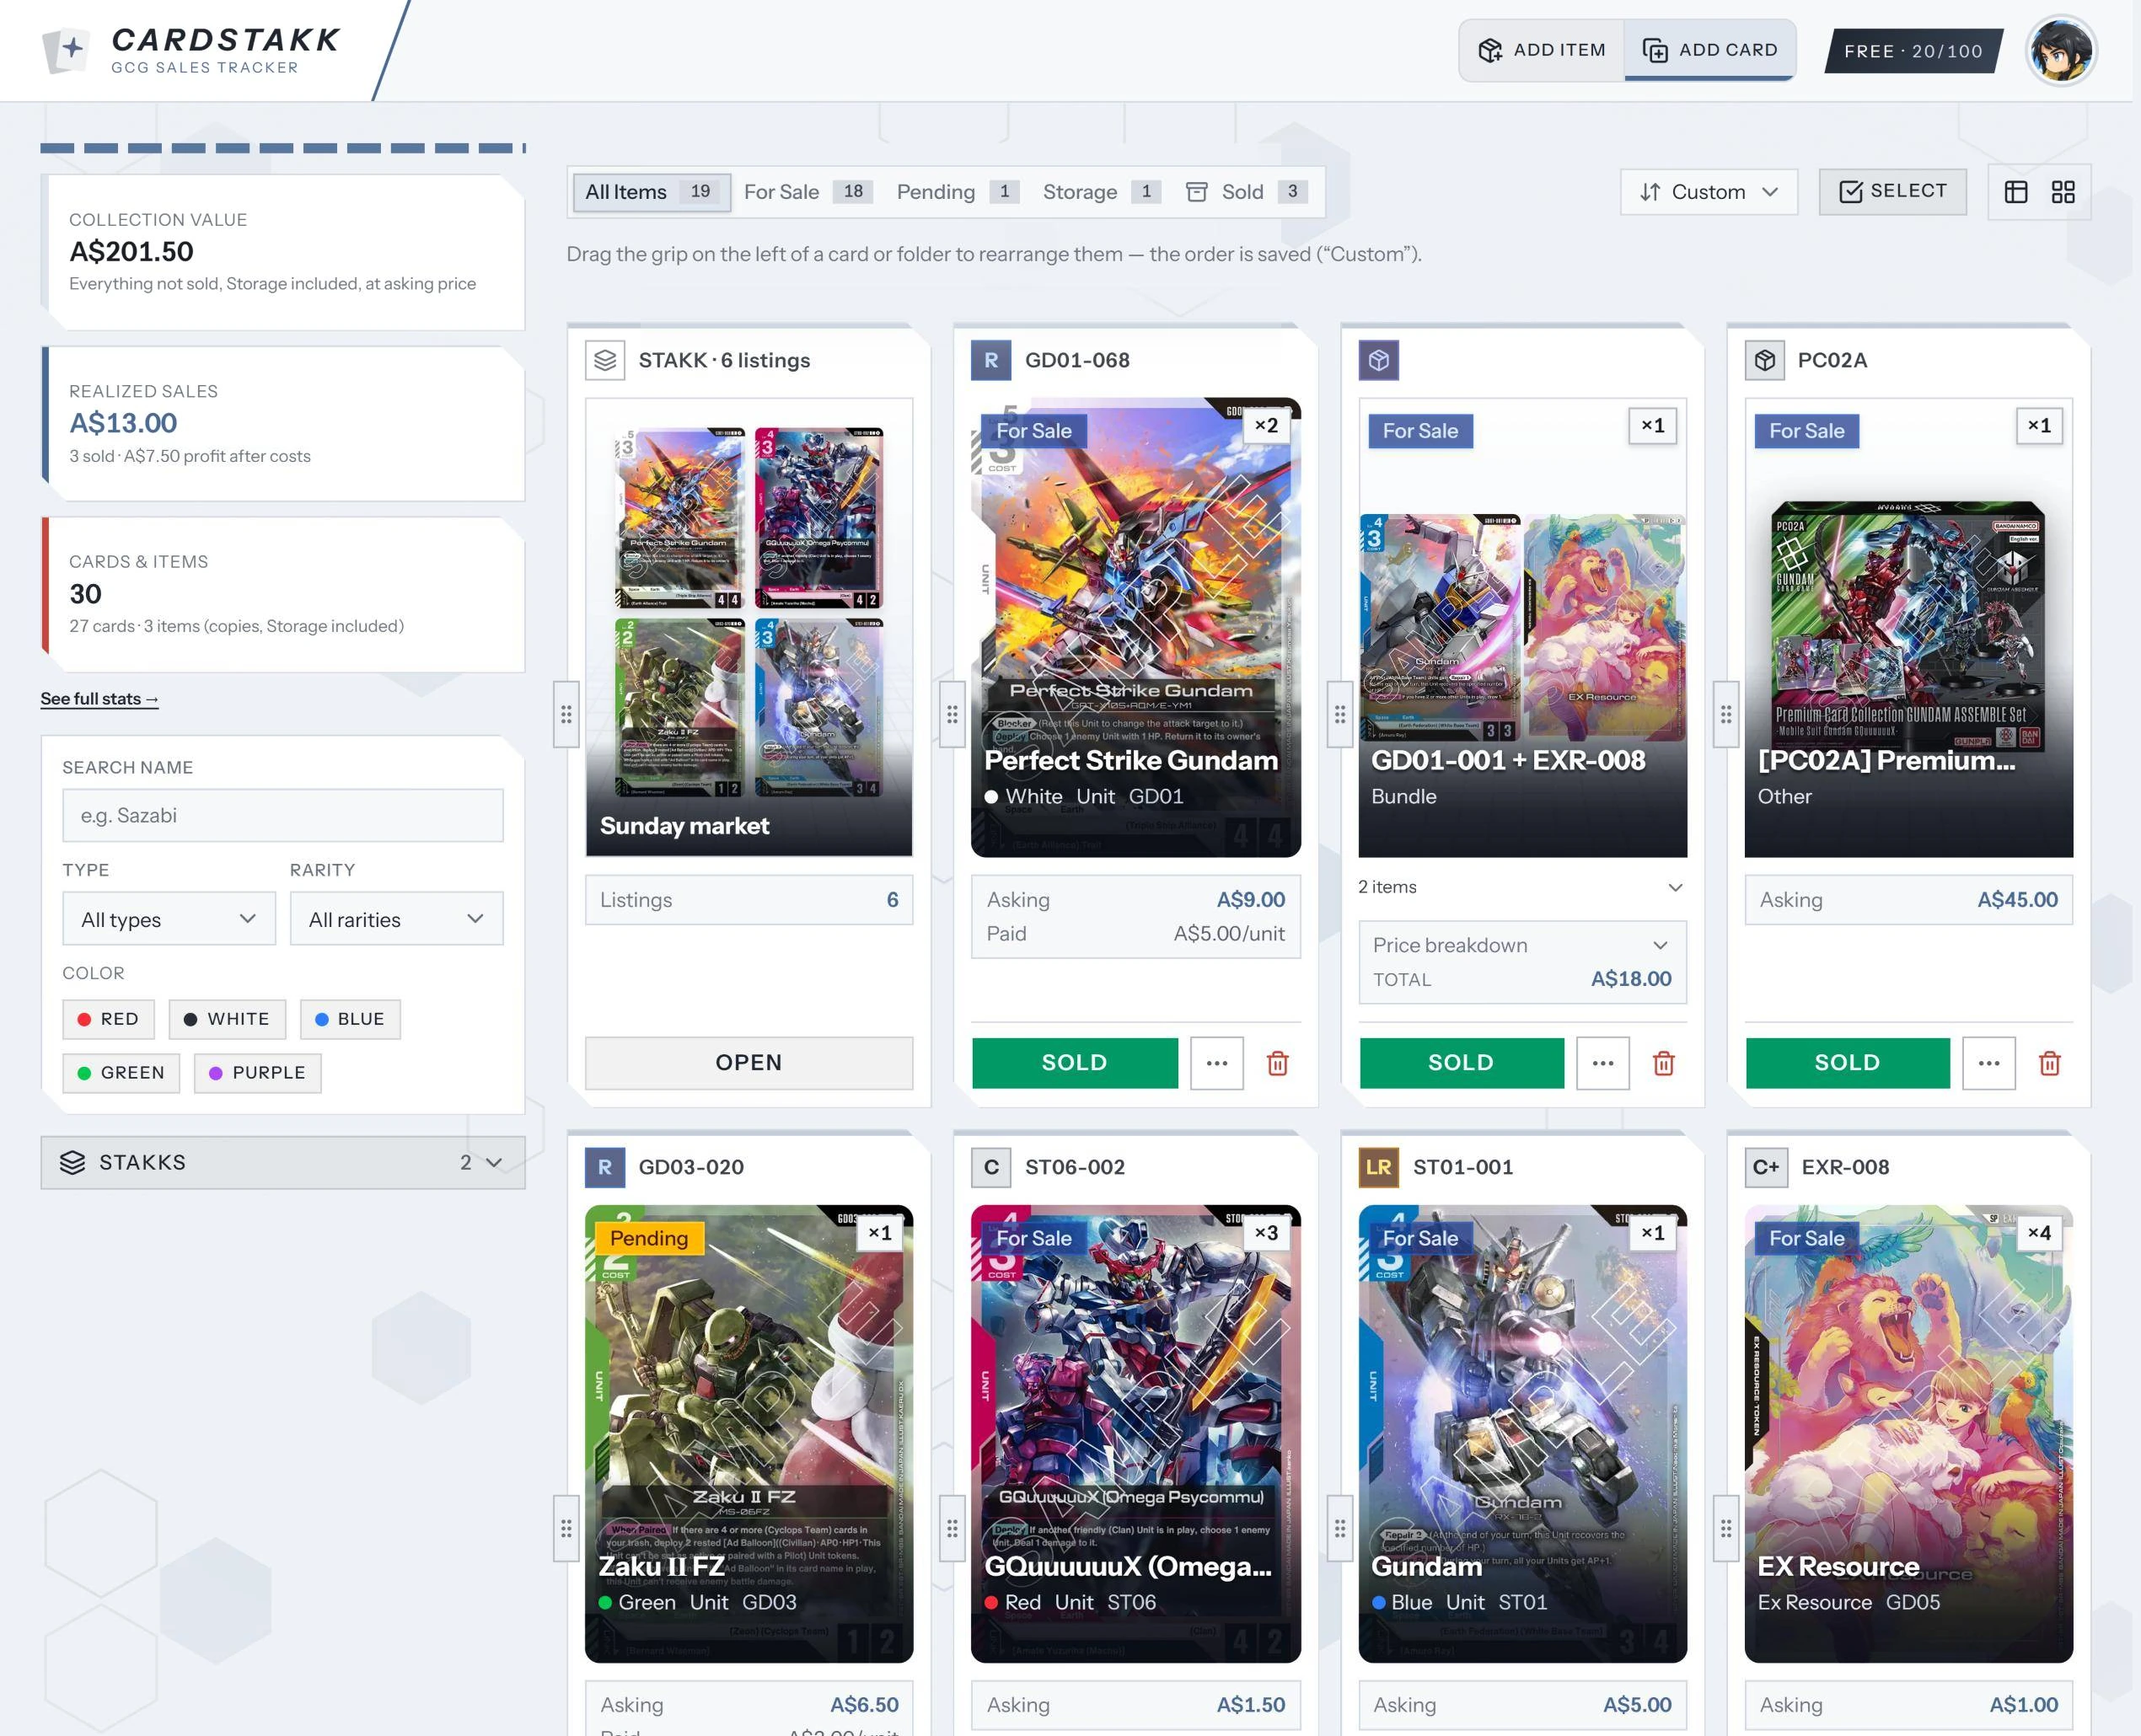
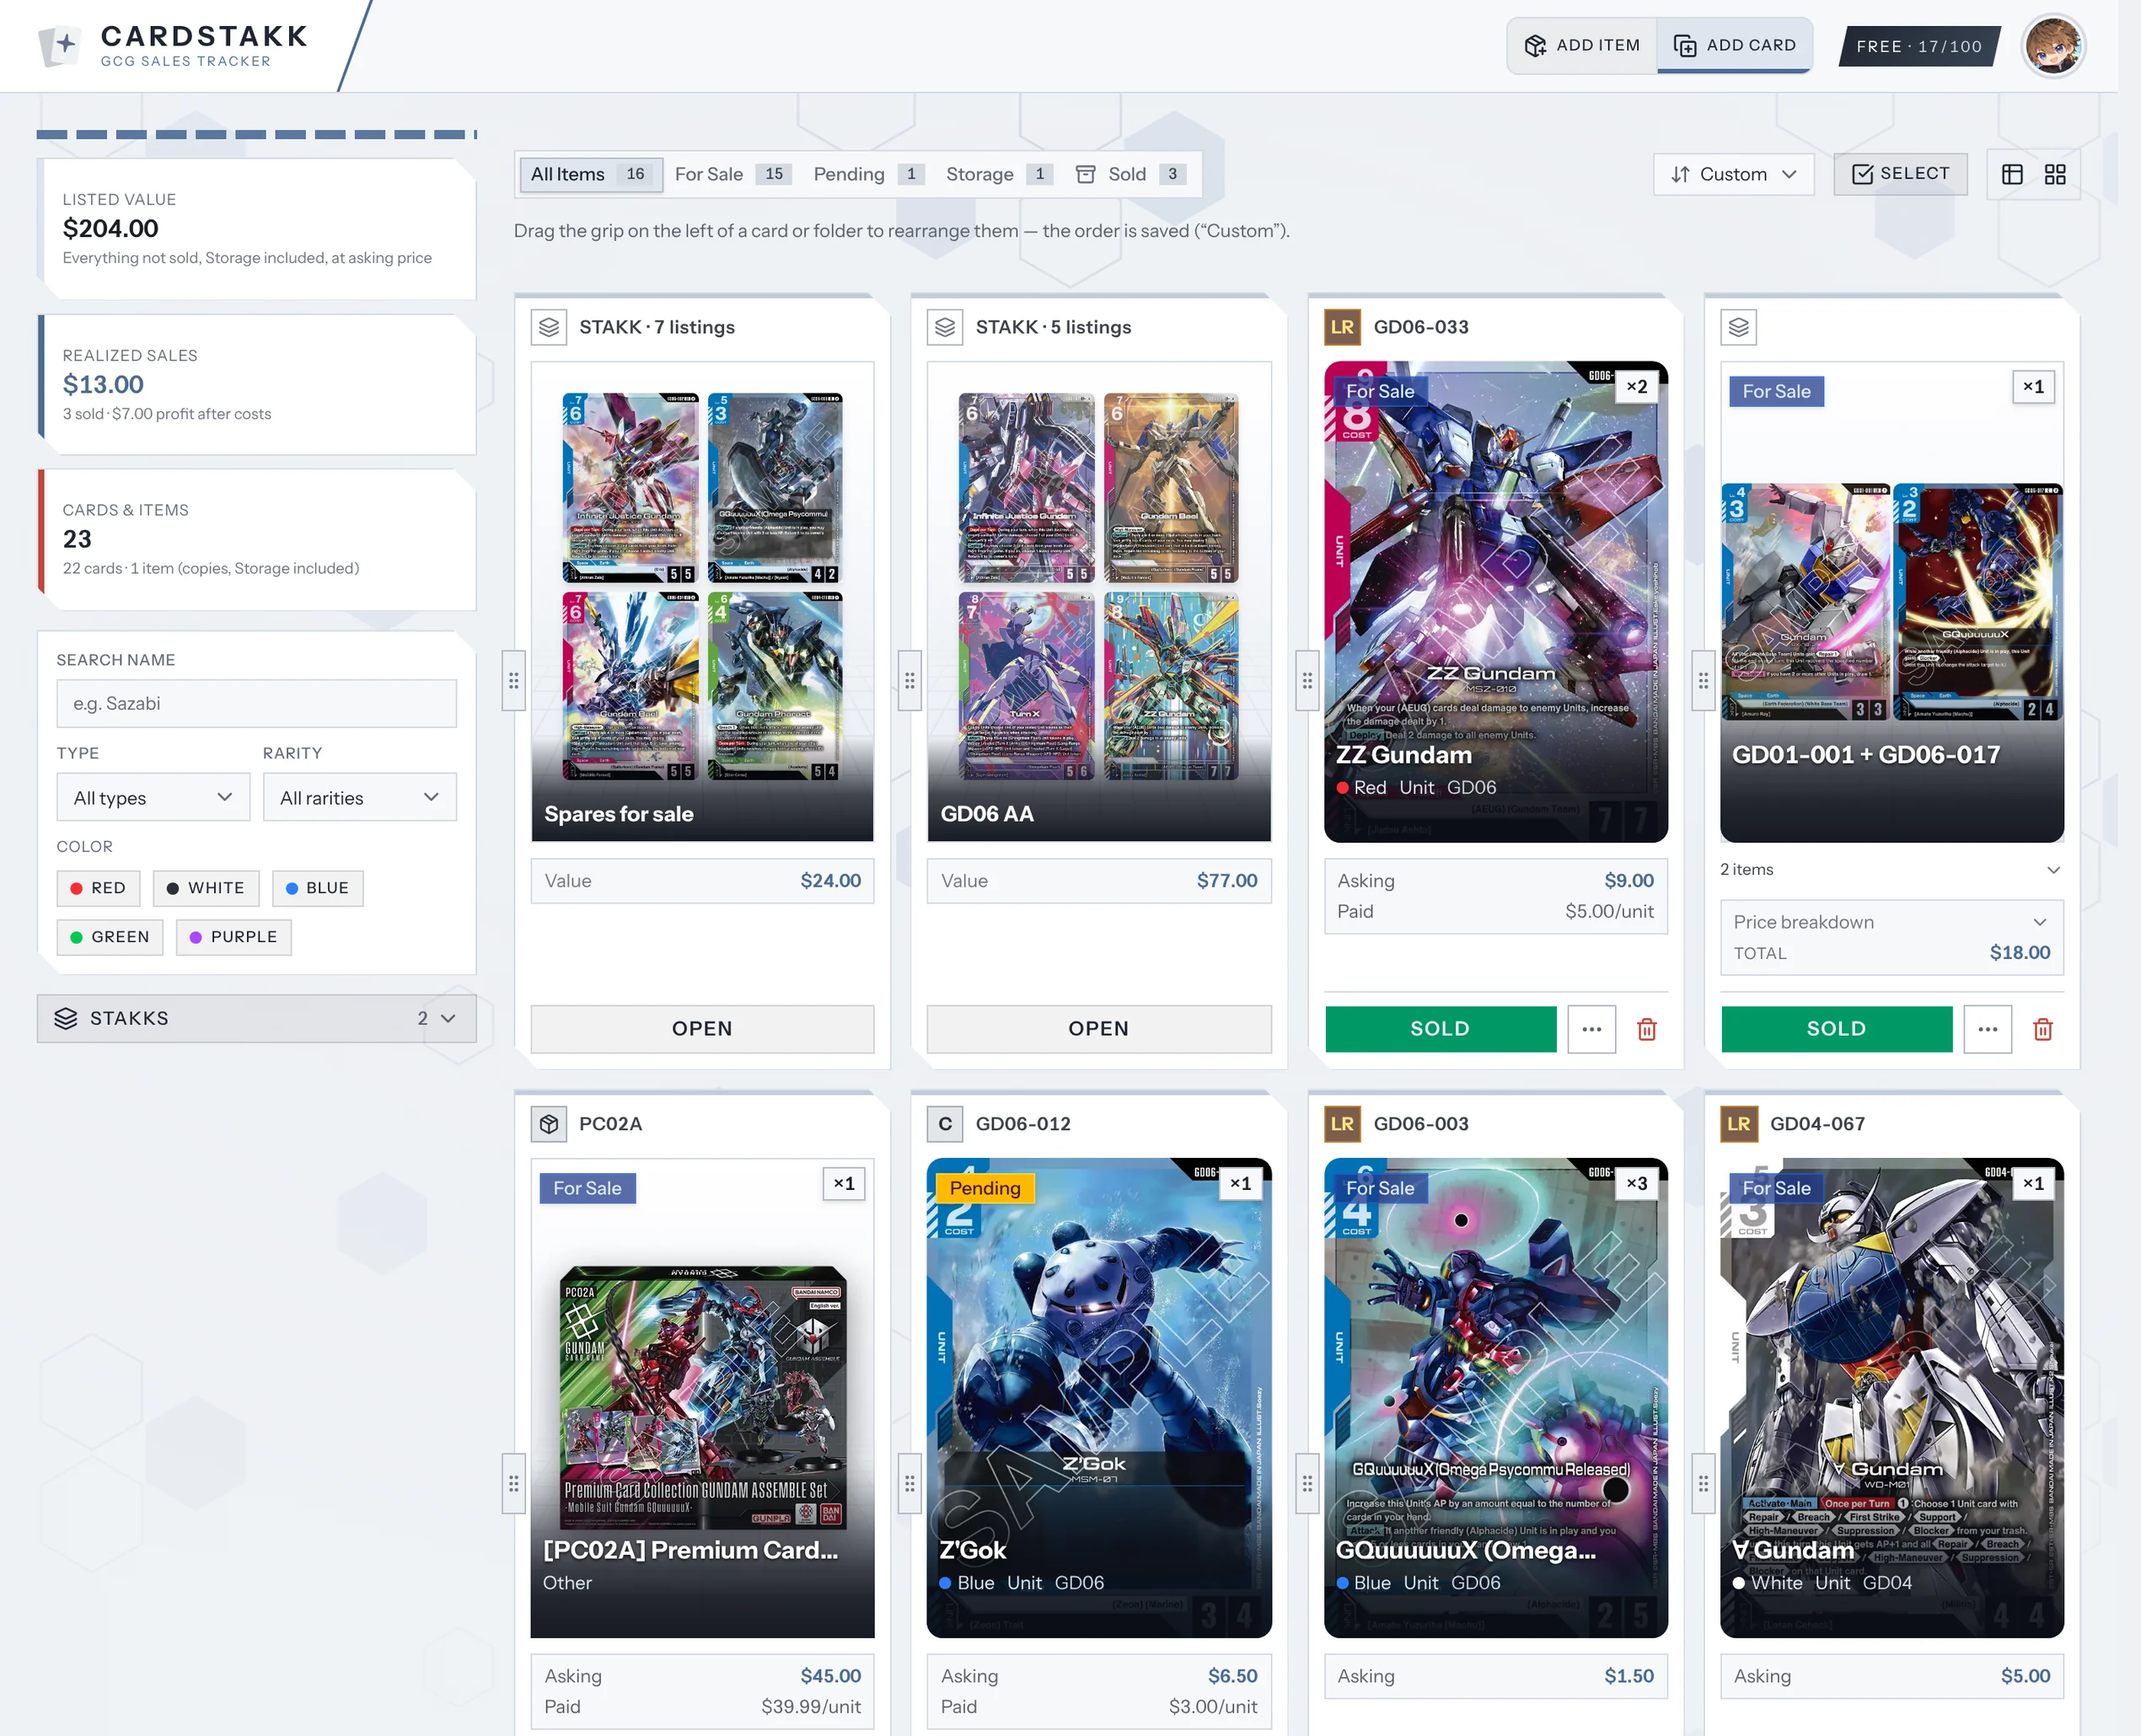
New landing-page screenshots

diff --git a/frontend/src/pages/Landing.tsx b/frontend/src/pages/Landing.tsx
@@ -115,18 +115,18 @@ const FEATURES = [
     text: "Search the full official card list by name, number or keyword, and pick the exact printing.",
     points: ["Parallels and promos included", "Unit, Pilot and token filters"],
     img: addCardShot,
-    w: 576,
-    h: 670,
-    alt: "The Add Card window: a search for zaku with the keyword buttons and Zaku cards below",
-    caption: "The Add Card window: search “zaku”, or tap a keyword like Unit or Pilot.",
+    w: 577,
+    h: 790,
+    alt: "The Add Card window: a search for justice with the keyword buttons and Justice Gundam cards below",
+    caption: "The Add Card window: search “justice”, or tap a keyword like Unit or Pilot.",
   },
   {
     title: "Products too, not just cards",
     text: "Starter decks, Premium Bandai sets, sleeves and accessories come from their own product list, with each part priced if you sell them separately.",
     points: ["Filter by Starter Deck, Accessories, Premium Bandai or Other", "Something missing? Add a custom item with your own photo"],
     img: addItemShot,
-    w: 576,
-    h: 722,
+    w: 577,
+    h: 842,
     alt: "The Add Item window: starter decks ST11 to ST14, damage counter dice and card sleeves",
     caption: "The Add Item window, with the category filters on top.",
   },
@@ -135,8 +135,8 @@ const FEATURES = [
     text: "Keep a binder for a market day, a set or a buyer. Move a whole Stakk to Storage and back in one go, and see what each one is worth.",
     points: [],
     img: stakksShot,
-    w: 694,
-    h: 481,
+    w: 782,
+    h: 525,
     alt: "Two Stakks shown as folder cards next to a single listing",
     caption: "Stakks sit in your listings as folder cards. Tap Open to see everything inside.",
     wide: true,
@@ -621,7 +621,7 @@ export default function Landing({
               src={appShot}
               width={1270}
               height={1030}
-              alt="The CardStakk listings page with sample listings: a Stakk, a bundle, a Premium Bandai set, a pending card and single cards"
+              alt="The CardStakk listings page with sample listings: two Stakks, a card bundle, a Premium Card Collection set, a pending card and single cards"
               className="block h-auto w-full rounded-xl border border-[#dbe1e8] shadow-[0_40px_80px_-40px_rgba(28,34,43,.55)] md:origin-left md:[transform:perspective(1600px)_rotateY(-8deg)_rotateX(3deg)]"
             />
             <div aria-hidden className={`${HERO_NOTE} -right-3 -bottom-5 max-md:hidden`}>
